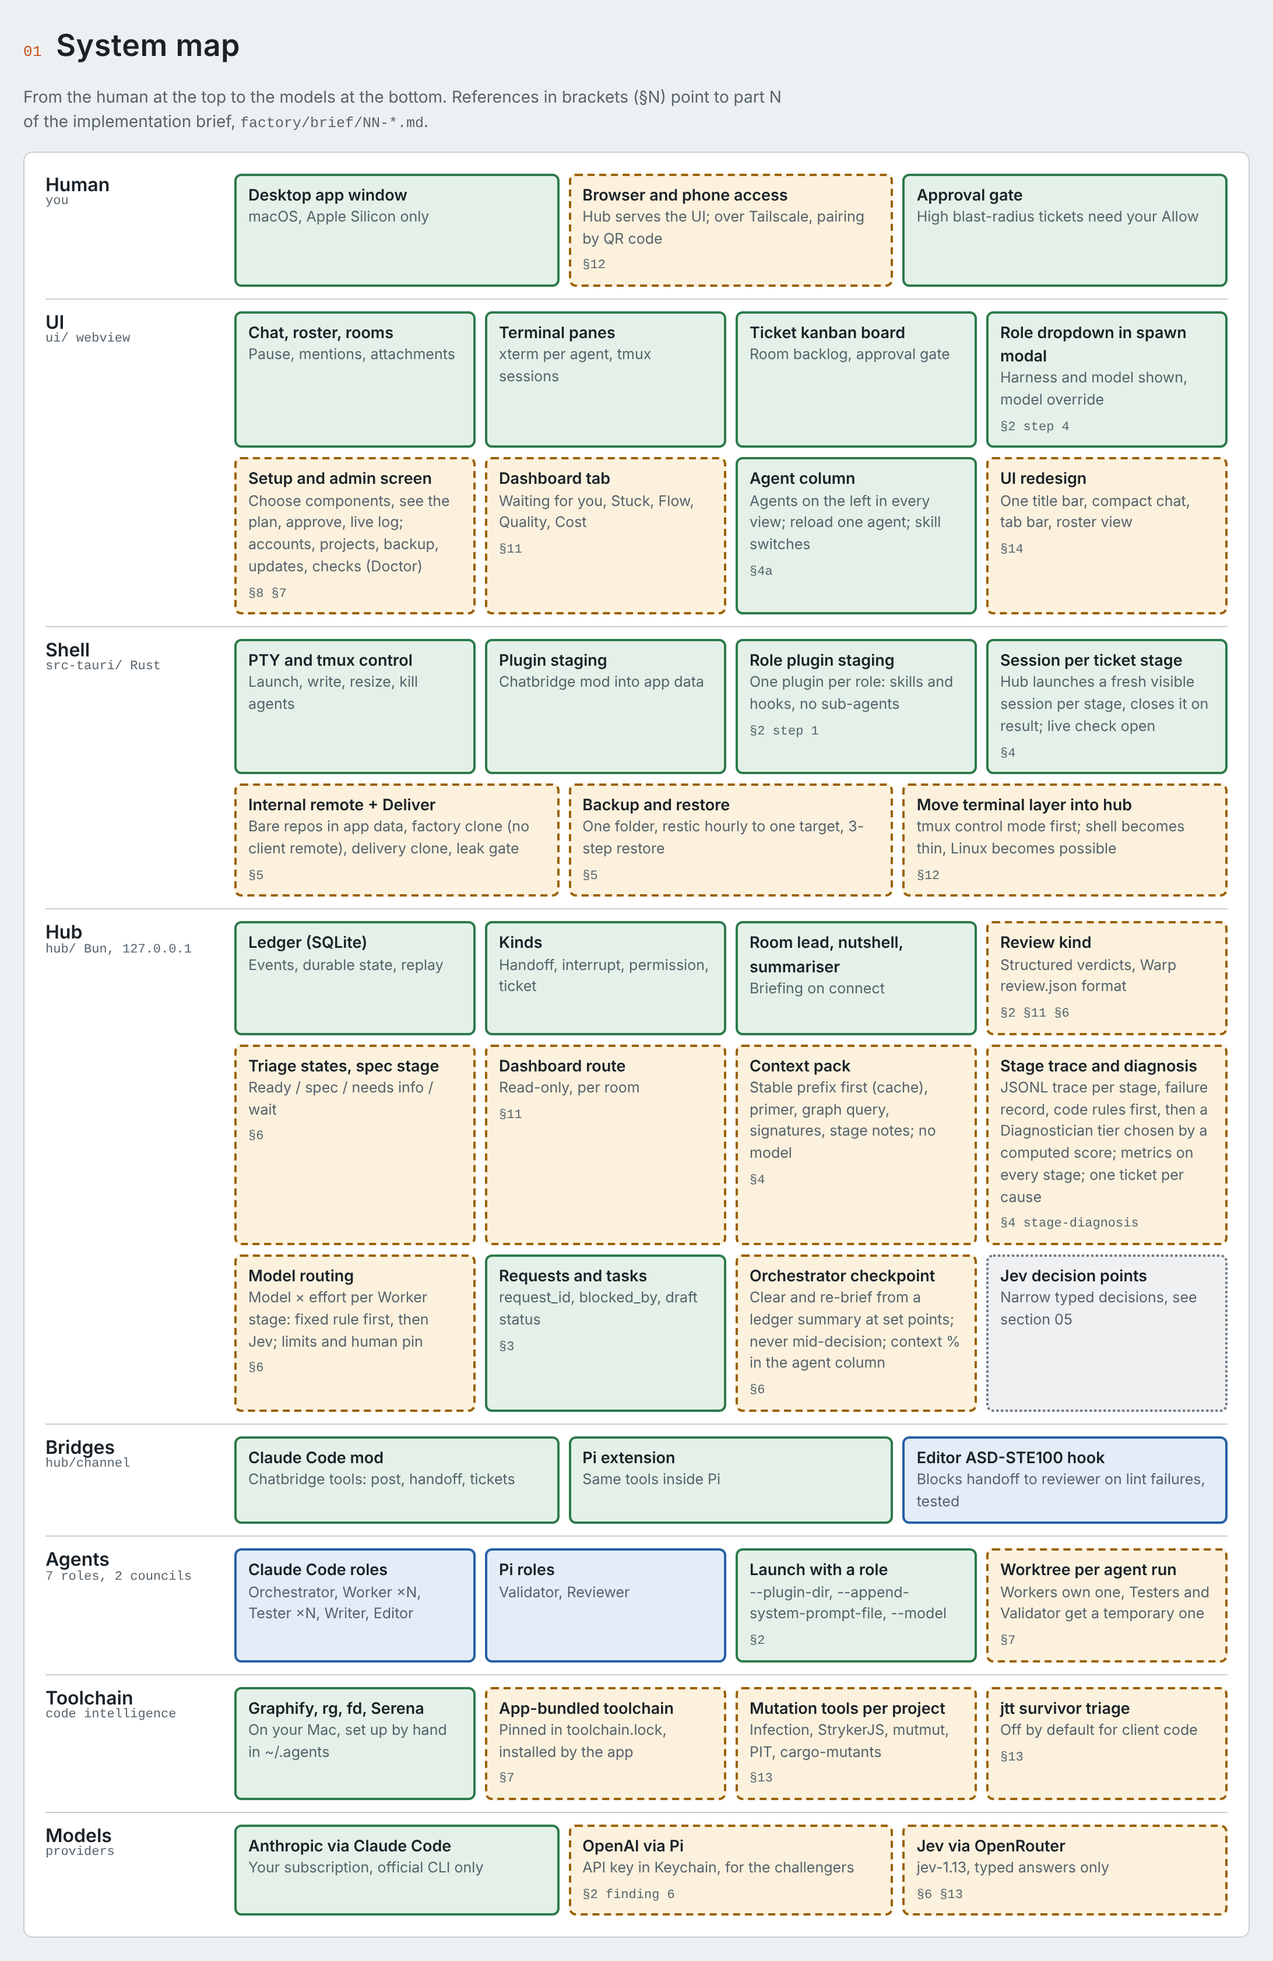
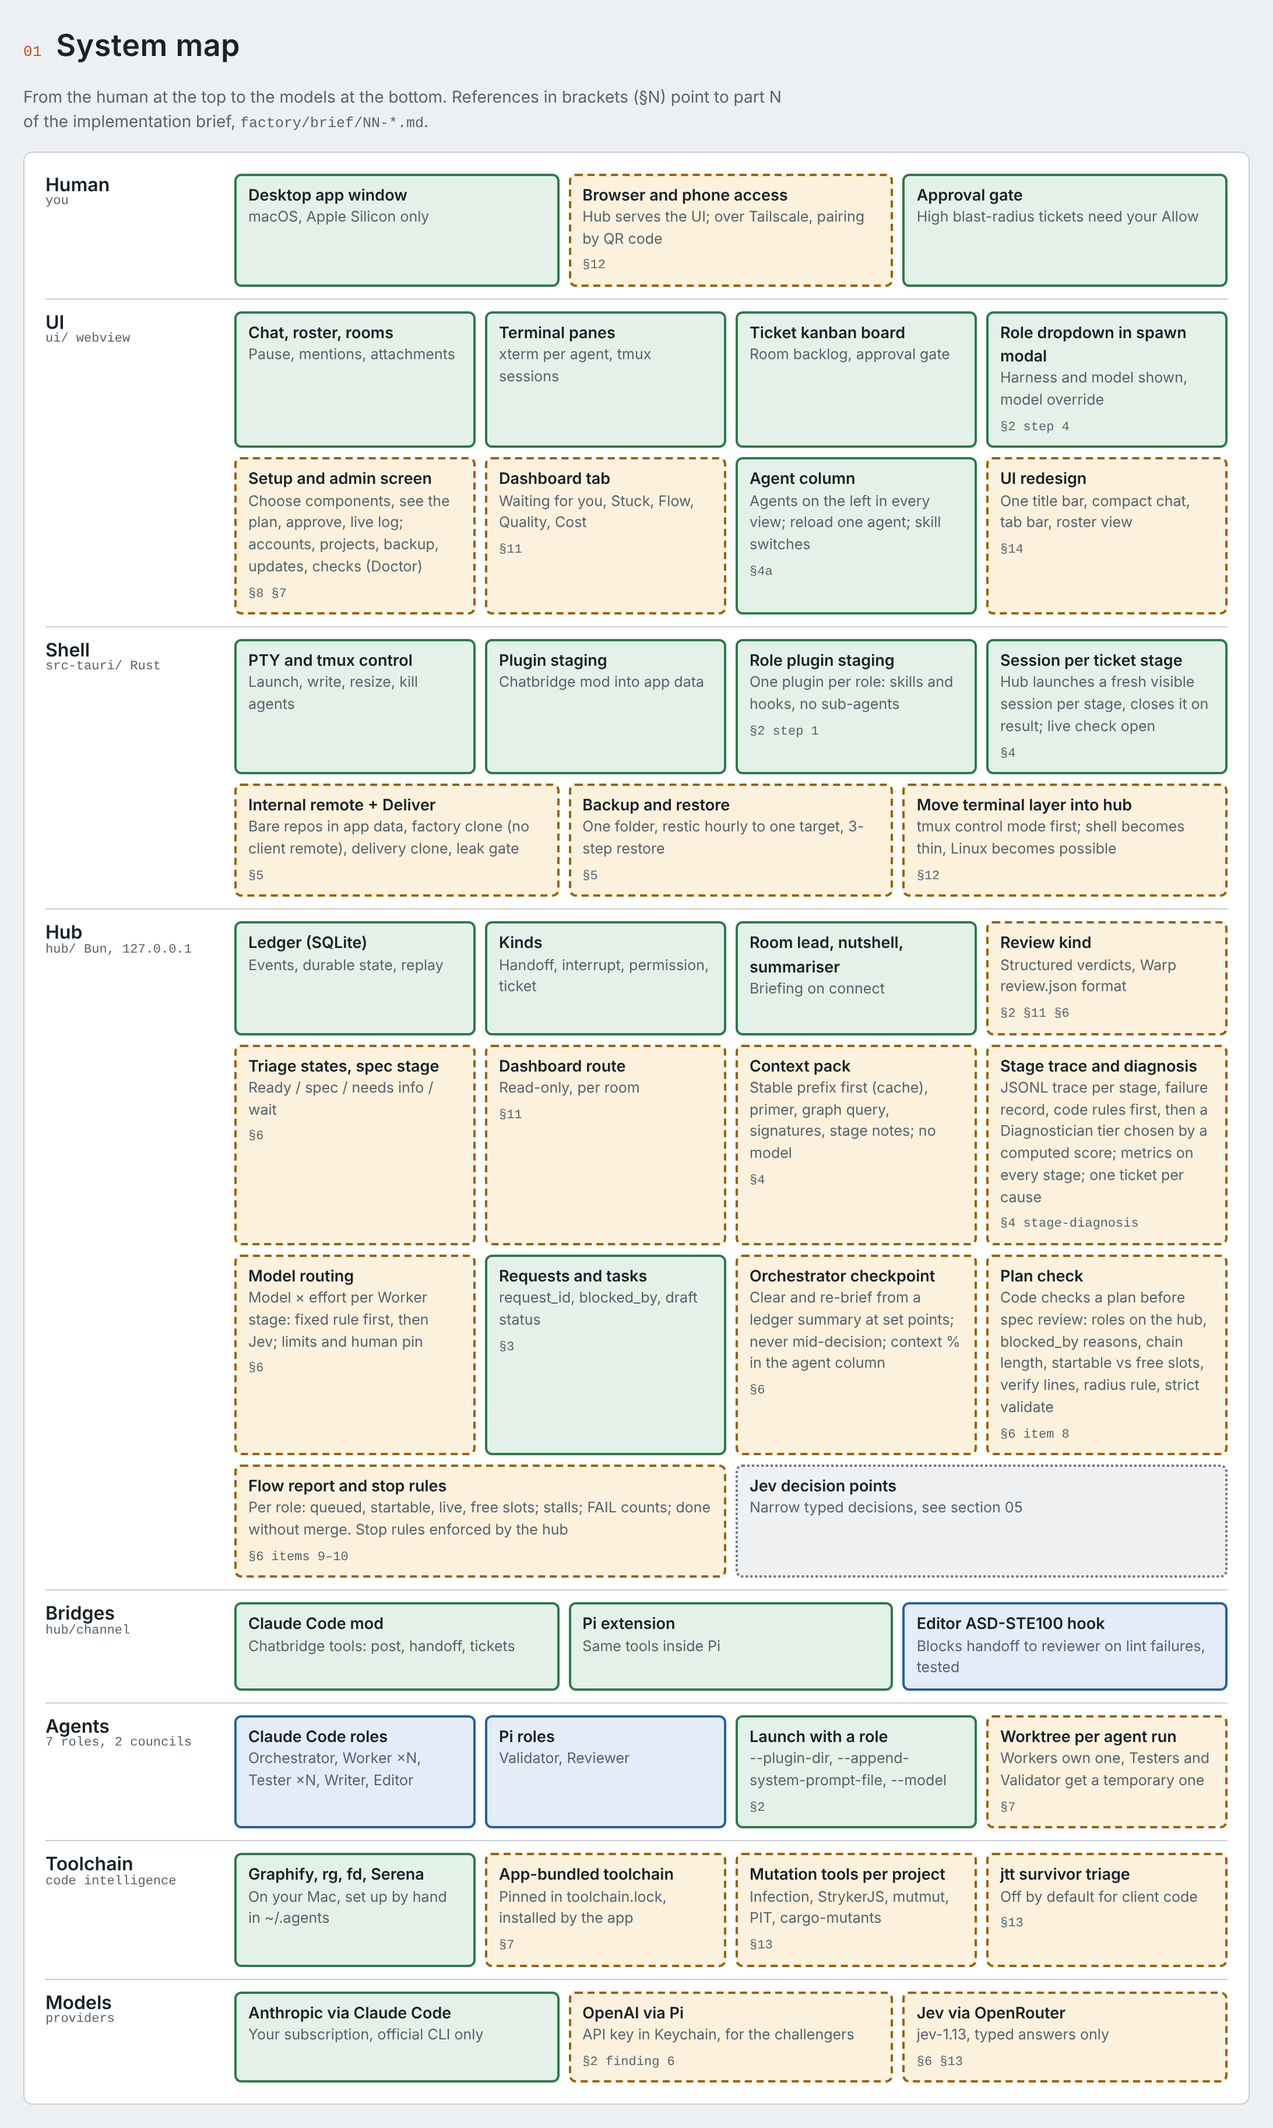
docs: Part 6 process guards from real use (plan check, flow report, stop rules in the hub; mechanical findings; fail_count); map

diff --git a/docs/factory-map.html b/docs/factory-map.html
@@ -203,6 +203,8 @@ footer{color:var(--muted);font-size:12.5px;display:grid;gap:4px}
         <div class="n planned"><span class="t">Model routing</span><span class="d">Model × effort per Worker stage: fixed rule first, then Jev; limits and human pin</span><span class="ref">§6</span></div>
         <div class="n built"><span class="t">Requests and tasks</span><span class="d">request_id, blocked_by, draft status</span><span class="ref">§3</span></div>
         <div class="n planned"><span class="t">Orchestrator checkpoint</span><span class="d">Clear and re-brief from a ledger summary at set points; never mid-decision; context % in the agent column</span><span class="ref">§6</span></div>
+        <div class="n planned"><span class="t">Plan check</span><span class="d">Code checks a plan before spec review: roles on the hub, blocked_by reasons, chain length, startable vs free slots, verify lines, radius rule, strict validate</span><span class="ref">§6 item 8</span></div>
+        <div class="n planned"><span class="t">Flow report and stop rules</span><span class="d">Per role: queued, startable, live, free slots; stalls; FAIL counts; done without merge. Stop rules enforced by the hub</span><span class="ref">§6 items 9–10</span></div>
         <div class="n idea"><span class="t">Jev decision points</span><span class="d">Narrow typed decisions, see section 05</span></div>
       </div></div>
 
@@ -466,7 +468,7 @@ footer{color:var(--muted);font-size:12.5px;display:grid;gap:4px}
     <div class="n built"><span class="step">3</span><span class="t">Ticket grouping</span><span class="d">done: request_id, blocked_by, draft status</span><span class="ref">§3</span></div>
     <div class="n planned"><span class="step">4</span><span class="t">Session per ticket stage</span><span class="d">in test: built and live-checked; open: 4 high-radius tests, waivers, context pack, stage diagnosis (proposed)</span><span class="ref">§4</span></div>
     <div class="n built"><span class="step">4a</span><span class="t">Agent column</span><span class="d">done: built to test Part 4; reload one agent, skill switches</span><span class="ref">§4a</span></div>
-    <div class="n planned"><span class="step">6</span><span class="t">Checkpoint, routing, Warp patterns</span><span class="d">next: Orchestrator checkpoint first; then model × effort per Worker; triage, spec stage, review.json</span><span class="ref">§6</span></div>
+    <div class="n planned"><span class="step">6</span><span class="t">Checkpoint, guards, routing, Warp patterns</span><span class="d">next: Orchestrator checkpoint; then plan check, flow report, stop rules in the hub; then model × effort per Worker; triage, spec stage, review.json</span><span class="ref">§6</span></div>
     <div class="n planned"><span class="step">12</span><span class="t">Hub-first, browser, Linux</span><span class="d">after Part 6: hub serves the UI, terminal layer into the hub, browser access and pairing, Linux</span><span class="ref">§12</span></div>
     <div class="n planned"><span class="step">5</span><span class="t">Delivery and backup</span><span class="d">after Part 12: internal remote, Deliver step, leak gate, hourly backup</span><span class="ref">§5</span></div>
     <div class="n planned"><span class="step">7</span><span class="t">Toolchain</span><span class="d">bundled tools, worktrees, Serena limits</span><span class="ref">§7</span></div>

diff --git a/factory/brief/06-warp-patterns.md b/factory/brief/06-warp-patterns.md
@@ -1,4 +1,23 @@
-# Part 6: patterns from the Warp cloud factory, model routing and the Orchestrator checkpoint
+# Part 6: patterns from the Warp cloud factory, model routing, the Orchestrator checkpoint and process guards
+
+Status: planned. Build order inside this part (decision 2026-10-27): item 7 (Orchestrator checkpoint), then items 8 to 10 (process guards), then item 6 (model routing), then items 1 to 5. Part 12 comes directly after this part.
+
+## Findings from real use (2026-10-27)
+
+On 2026-10-27 the factory ran real work through Part 4 and stopped many times. The record of each stop is in `factory/orchestrator/unblocking.md`. The stops have three causes:
+
+1. **The process lives in text, and code enforces little of it.** Rules in role files ("stop after two FAILs", "the role must run on the hub") were not followed, and a memory note overrode the role file. Examples: six spec-review FAILs without a stop; `[doc]` tickets with the role writer that could never start; a stage that stayed queued after its ticket went back to draft; a cancel that does not stop a running stage.
+2. **Too much goes through two points: the Orchestrator and the human.** The Orchestrator plans, sets dependencies, reports status and judges findings in one context. Results: 18 queued tickets in one chain of 17 links with one Worker slot idle; contradictory acceptance criteria; a status report that named merges that were not on staging. The human is the only one who can queue, change a radius or give an Allow, on a board that could not find a ticket by id.
+3. **Nobody measures the process.** The stops became visible only when the human asked.
+
+The response, in this part:
+- Item 3 and item 5 get rules from the findings (mechanical findings, the FAIL count).
+- Item 7 keeps the Orchestrator's context small, so the hub, not the Orchestrator's memory, holds the state.
+- Item 8 checks each plan with code before the spec review.
+- Item 9 gives a flow report from the hub.
+- Item 10 moves the stop rules into the hub.
+
+Rule for all items: a fact about the work ("done", "merged", "archived", "blocked") comes from the hub or from git. A report that states such a fact without a commit hash or a hub record does not count.
 
 Source: https://github.com/warpdotdev-demos/cloud-factory-demo (MIT, Warp, last commit 2026-08-12). Read on 2026-10-18.
 
@@ -35,6 +54,7 @@ For the factory:
 - Use OpenSpec instead of `PRODUCT.md` and `TECH.md` where the project already uses it. This repo uses OpenSpec (`openspec/`).
 - The Validator checks the diff against the spec, not only against the acceptance criteria. Warp uses a skill `validate-changes-match-specs` from `warpdotdev/common-skills` for this. Read it before you write ours.
 - Decision (2026-10-19): the Writer writes the spec, on a `[spec]` ticket, with the skill `spec-driven-development` (addyosmani/agent-skills). The Validator does the spec review. Then the human approves the spec.
+- Interim (2026-10-27): the writing chain does not run on the hub yet. Until it does, a Worker writes the spec and the Validator reviews it (as for `[doc]` tickets).
 
 ### 3. A structured review format
 
@@ -59,6 +79,8 @@ For the factory:
 - Map our verdicts: PASS and APPROVE to `APPROVE`. FAIL and CHANGES to `REJECT`. Map our `blocking` to CRITICAL or IMPORTANT, and `suggestion` to SUGGESTION or NIT.
 - Copy `annotate_diff.py` and `validate_review_json.py` into `validator/skills/`. They do not depend on GitHub.
 - The Tester attaches `pr_diff.txt` (annotated) to the handoff, so that the Validator reviews the same lines.
+- Finding type (2026-10-27): each blocking finding is `mechanical` or `judgment`. A mechanical finding names a command that checks it (validate, grep, a test, a character count). Its fix is accepted when the command passes. It does not need a new review. A judgment finding follows item 5.
+- The hub writes the FAIL count of the request or the ticket into each FAIL result (`fail_count`). The Validator does not count.
 
 ### 4. The trust boundary for reviewers
 
@@ -78,6 +100,8 @@ From `review-pr/SKILL.md`. On a second review of the same ticket:
 3. Review only the change since the last review. Use the full diff for context only.
 
 This makes the FAIL and CHANGES loops shorter and less expensive. The `review` kind stores the earlier findings, so the Validator can compare.
+
+Limit (2026-10-27): after the second FAIL or CHANGES on one plan or one ticket, there is no third review unless the human starts it. The hub enforces this (item 10). When acceptance criteria contradict each other on a ticket in review, the human rules which reading applies. The ruling is a ticket note, and no new ticket is necessary unless the ruling changes the scope.
 
 ### 6. Model routing for Workers
 
@@ -198,26 +222,99 @@ The Orchestrator stays open for the whole room (Part 4). Its context must stay s
 5. A ticket event that needs no decision reaches the room lead only in the digest.
 6. The agent column shows the context percentage of the Orchestrator.
 
+Note (2026-10-27): the Orchestrator's own note (design step 5) and its memory are not a source of rules. The role file and `factory/orchestrator/unblocking.md` are. The state summary of design step 4 is also the base of the flow report (item 9).
+
 #### Open questions
 
 1. Pi has no `SessionStart` hook. The Orchestrator is a Claude role, so this item covers Claude only. Check this again if the Orchestrator ever runs on Pi.
 2. Is 60 % the right threshold? Use the records of item 9 to tune it.
 
+### 8. Plan check before the spec review
+
+Status: decision 2026-10-27 (human). Build it after item 7.
+
+#### Goal
+
+Find the faults that code can find before a plan goes to spec review. The spec review then judges only what needs judgment. On 2026-10-27, most review loops came from faults that a command could find.
+
+#### Design
+
+1. **A hub command and a route.** `GET /requests/<id>/check` returns a list of findings for the draft tickets of one request. The Orchestrator runs it before it sends the plan to spec review. The hub also runs it when the spec review starts, and puts the result in the Validator's first message.
+2. **Checks.** Each check gives `error` or `warning`:
+   - The role of each ticket runs on the hub (today: not writer, editor, reviewer). `error`.
+   - Each `blocked_by` names a ticket of the room that is open or done, and gives a reason: the output it needs, or the file that both tickets edit. `error` without a reason.
+   - The longest chain of `blocked_by` links. More than 5 links without a reason in the request: `warning`.
+   - The number of tickets that can start now, compared with the free slots of each role. Fewer than the free slots: `warning`, with the links that block them.
+   - Each acceptance criterion has a verify line that names a test file or a command. A human-only check is marked `[human]` and is in one final live-check ticket. `error`.
+   - The radius follows the radius rule (high for launch, ownership, permissions, read-only worktrees, data). A ticket that names one of these areas with radius low: `warning` for the human.
+   - The OpenSpec change of the request passes `openspec validate --strict` with the pinned version. `error`.
+   - The same term with two different numbers in one ticket (for example two limits for one value). `warning`.
+3. **Effect.** A plan with an `error` does not go to spec review. The Orchestrator fixes the tickets. A `warning` goes to the Validator and to the human with the plan.
+4. **No model.** The check is code only. It reads the ledger, the files and the output of commands.
+
+#### Tests
+
+1. A ticket with the role writer gives an `error`.
+2. A `blocked_by` without a reason gives an `error`. A chain of 6 links gives a `warning`.
+3. A plan where 1 ticket can start and 2 Worker slots are free gives a `warning` that names the blocking links.
+4. A criterion without a verify line gives an `error`.
+5. A plan with an `error` cannot start a spec review.
+
+### 9. Flow report
+
+Status: decision 2026-10-27 (human). Build it after item 8. It is the first part of the dashboard (Part 11), in a form without a new screen.
+
+#### Goal
+
+The human and the Orchestrator see where the work waits, without a question to the Orchestrator and without a check by hand.
+
+#### Design
+
+1. **`GET /rooms/<room>/flow`** returns, from the ledger only:
+   - per role: queued tickets, tickets that can start, live stages, free slots;
+   - each queued ticket that can start but has no stage (a stall);
+   - each ticket without movement for more than a set time (setting in `config.yml`);
+   - the FAIL count of each open request and ticket;
+   - the longest chain of open tickets;
+   - time in each status, as the median of the last 7 days.
+2. **Show it.** One line in "Needs you" when a stall, a FAIL count of 2 or more, or an idle slot with startable work exists. The state summary of item 7 includes the flow report.
+3. **Status reports.** When the Orchestrator reports work as done, merged or archived, it gives the commit hash or the hub record. The flow report lists tickets that are `done` in the ledger with no merge commit on staging.
+
+#### Tests
+
+1. A queued ticket with no open blocker and no stage appears as a stall.
+2. A free Worker slot and a startable Worker ticket give a "Needs you" line.
+3. A ticket `done` in the ledger with no merge commit on staging appears in the report.
+
+### 10. Stop rules in the hub
+
+Status: decision 2026-10-27 (human). Several of these are open tickets already. This item collects them, so that each rule in a role file that protects the flow has a check in code.
+
+| Rule | Code | Ticket |
+|---|---|---|
+| No third review after two FAILs, unless the human starts it. The hub writes `fail_count`. The "Needs you" row shows the request while a newer review is open. | Spec review start refuses (409); result gets `fail_count` | t_65a8 |
+| A ticket that goes back to draft cancels its queued stage. New stage status `cancelled`, with no retry, no FAIL count and no failure handling. | Stage kind | G10 t_d232 |
+| A cancel of a ticket stops its running stage. | Stage kind, launch | G5 |
+| A ticket whose role has no stage chain on the hub cannot be queued. | Ticket transition refuses with the role name | draft ticket (2026-10-27) |
+| A plan with a plan-check `error` cannot start a spec review. | Spec review start | item 8 |
+
+Rule for new role-file rules: when a rule protects the flow (a limit, a stop, an order), add the check in code or add a row to this table with the reason why code cannot check it.
+
 ## Ideas for later
 
-### 8. Learning from the human's corrections
+### 11. Learning from the human's corrections
 
 Skill: `.agents/skills/improve-review-pr/SKILL.md`. A daily job reads how humans reacted to automated review comments. It opens a change to the review skill when it finds knowledge that the reviewer must keep.
 
 For the factory: when the human overrules a Validator or Reviewer verdict, record it with the reason. A scheduled job proposes changes to the role file or the skills. The human approves each change.
 
-### 9. Video evidence of UI behaviour
+### 12. Video evidence of UI behaviour
 
 Skill: `.agents/skills/verify-behavior/SKILL.md`. It checks each user story in a separate run, and records video and screenshots. It uses the Oz platform.
 
 For the factory: the Tester records Playwright video for UI tickets and attaches it to the ticket. One check for each user story in the spec, in parallel. This is useful for Drupal UI changes and for accessibility checks.
 
-### 10. Tests for skills
+### 13. Tests for skills
 
 File: `.agents/skills/triage/evals/evals.json`. Each entry has a prompt and the expected behaviour. Skill descriptions decide when skills load (Part 2, finding 4), so test the important skills with prompts like these. The `skill-creator` skill can run such tests.
 

diff --git a/factory/brief/00-index.md b/factory/brief/00-index.md
@@ -18,7 +18,7 @@ The brief has sixteen parts. The numbers follow the build order (decision 2026-1
 4. [04-sessions.md](04-sessions.md): Visible sessions (in test): no sub-agents, and one new session for each ticket stage. First, use a ticket runner outside the app.
 4a. [04a-agent-column.md](04a-agent-column.md): Agent column (done). The agents move to a left column in every view, with Reload for one agent and a switch for each skill. The human asked for it on 2026-10-24, so that Part 4 can be tested. Design note for the skill switches: [04a-c6-design.md](04a-c6-design.md).
 5. [05-delivery-backup.md](05-delivery-backup.md): Internal remote, clean delivery to the client, backups and recovery. You can set up the hourly backup at once.
-6. [06-warp-patterns.md](06-warp-patterns.md): Patterns from the Warp cloud factory: triage states, a spec stage, the `review.json` format, the trust boundary, follow-up reviews. Also model routing for Workers (item 6), and the Orchestrator checkpoint (item 7, build it first). Build Part 6 before Part 5 (decision 2026-10-26).
+6. [06-warp-patterns.md](06-warp-patterns.md): Patterns from the Warp cloud factory: triage states, a spec stage, the `review.json` format, the trust boundary, follow-up reviews. Also model routing for Workers (item 6), the Orchestrator checkpoint (item 7, build it first), and process guards from real use on 2026-10-27: a plan check before spec review (item 8), a flow report (item 9) and the stop rules in the hub (item 10). Order inside the part: 7, 8, 9, 10, 6, then 1 to 5. Build Part 6 before Part 5 (decision 2026-10-26).
 7. [07-toolchain.md](07-toolchain.md): Toolchain: the app installs and gives each agent Graphify, ripgrep, fd and Serena.
 8. [08-setup-admin.md](08-setup-admin.md): Setup and admin screen: install, sign in, add projects, check and update.
 9. [09-a11y-council.md](09-a11y-council.md): Accessibility and usability council. It builds the council form. It works on live pages, code, documents and Figma designs.

diff --git a/factory/orchestrator/unblocking.md b/factory/orchestrator/unblocking.md
@@ -53,6 +53,7 @@ When the work moves again, ask: will this block come back? If yes, open one draf
 - The role of each ticket runs on the hub.
 - Each `blocked_by` names an open ticket or a ticket that is done.
 - Each `blocked_by` has a reason: the ticket needs the other ticket's output (code, table, file), or both edit the same file. Name the file. Order, caution or "same area" is not a reason.
+- A shared record file (`tasks.md` ticks, a status table) is not a reason for a chain. Move the record edits into one closing ticket (for example the archive ticket), so the work tickets edit only their own files.
 - After you plan a request, count the tickets that can start now. If that number is lower than the free Worker slots, check each chain link again. A chain longer than 5 links needs a reason in the request.
 - The request needs the human to queue it if it has a high-radius ticket. Ask once, for the whole request, with all ticket ids.
 - A doc ticket says which roles do the work while the writing chain is not on the hub (Worker, then Validator).
